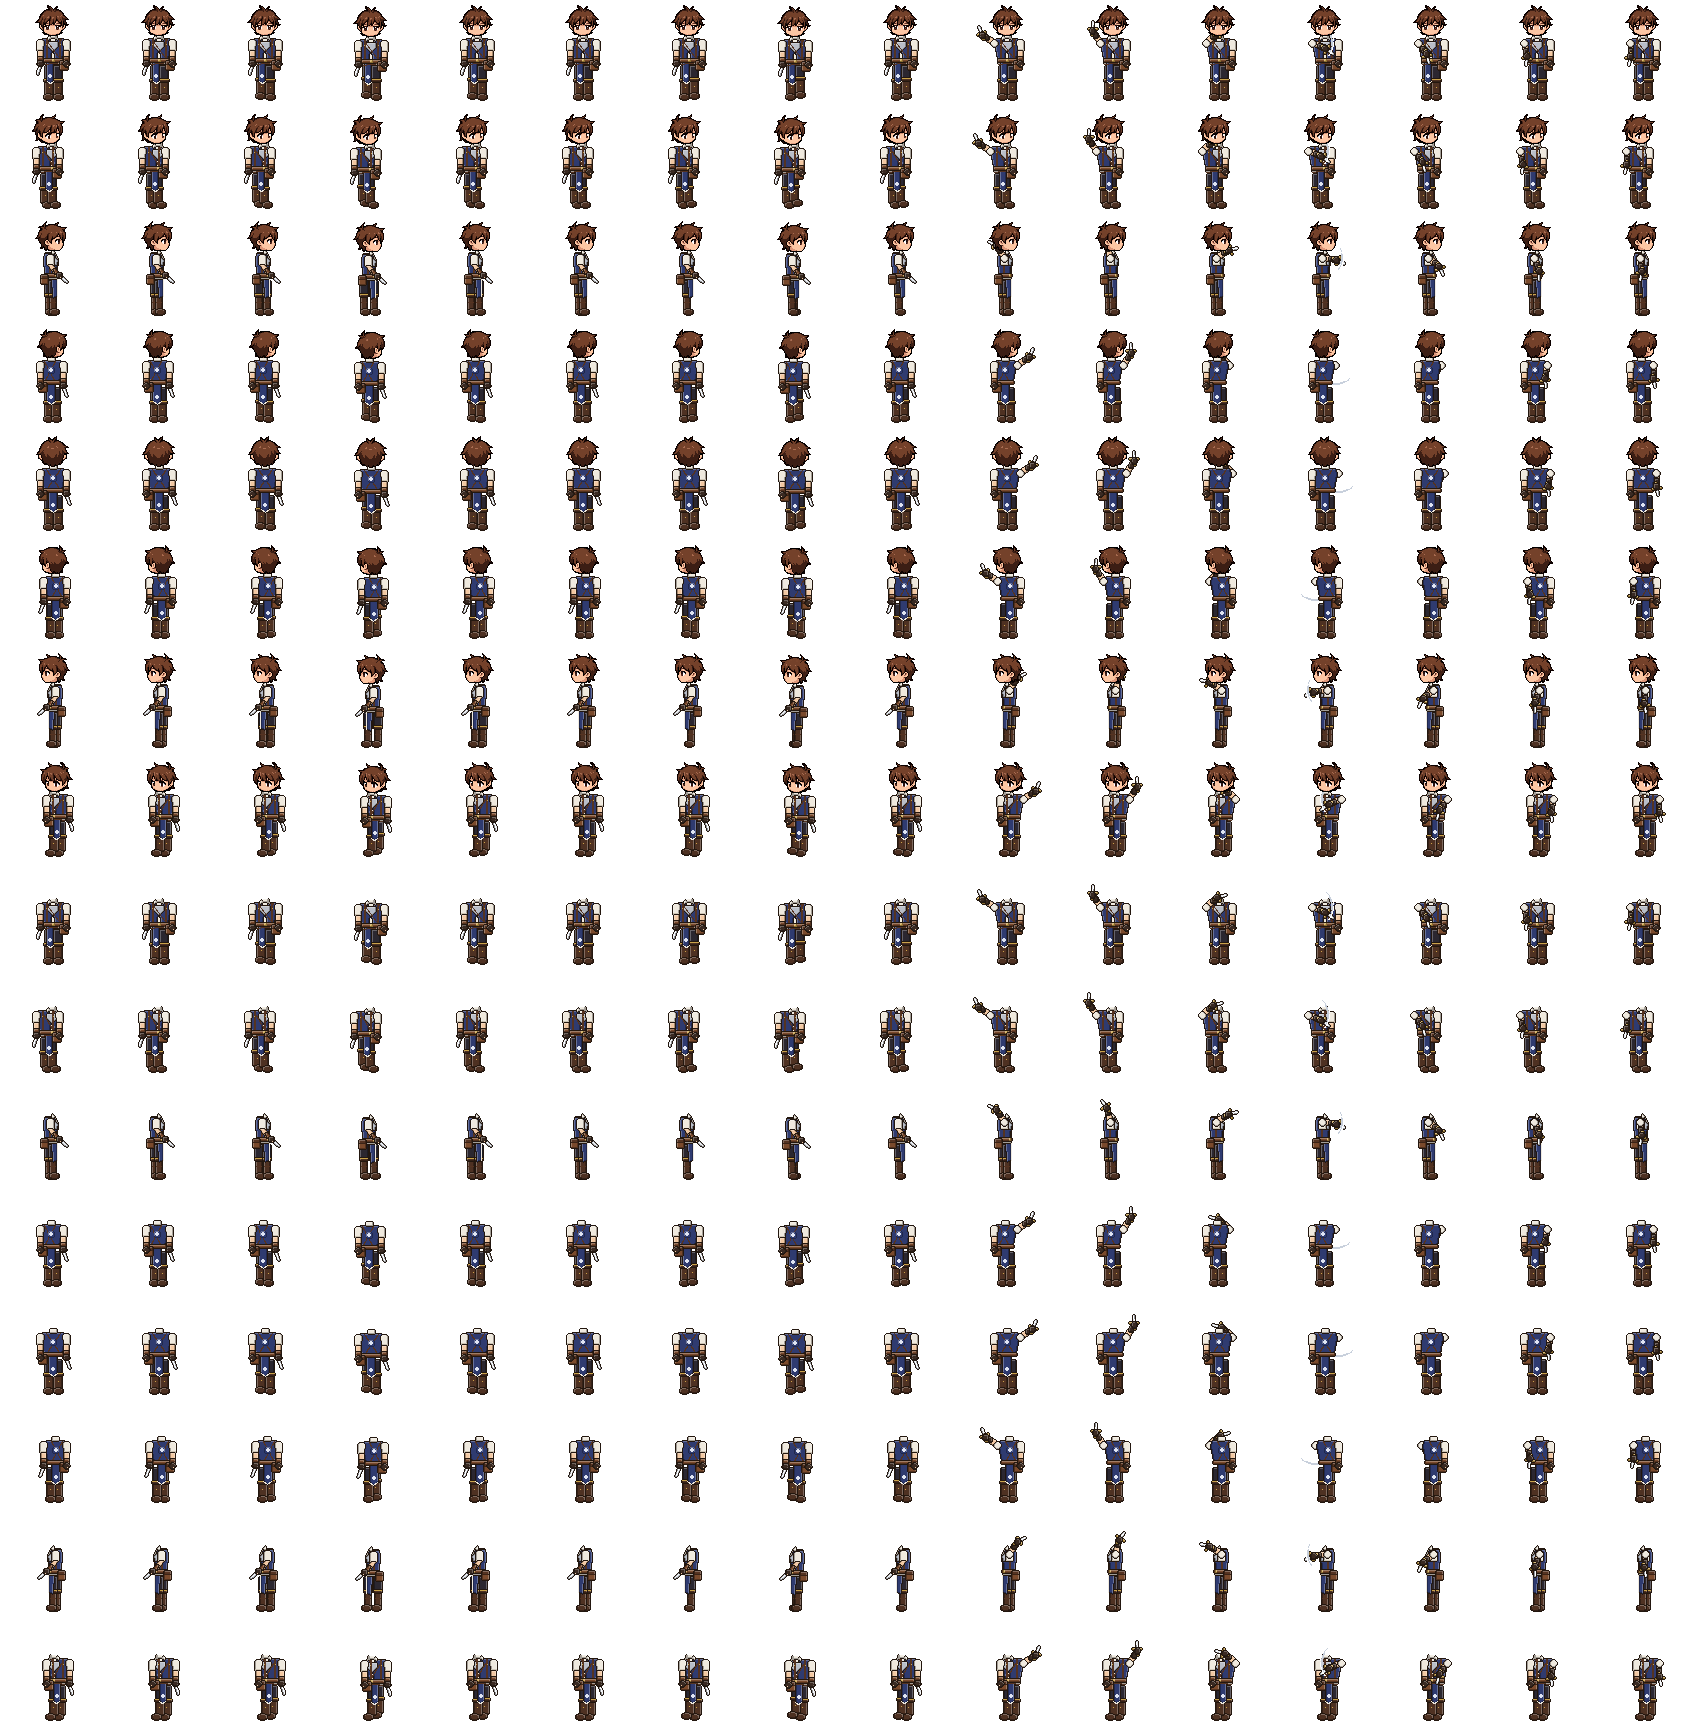
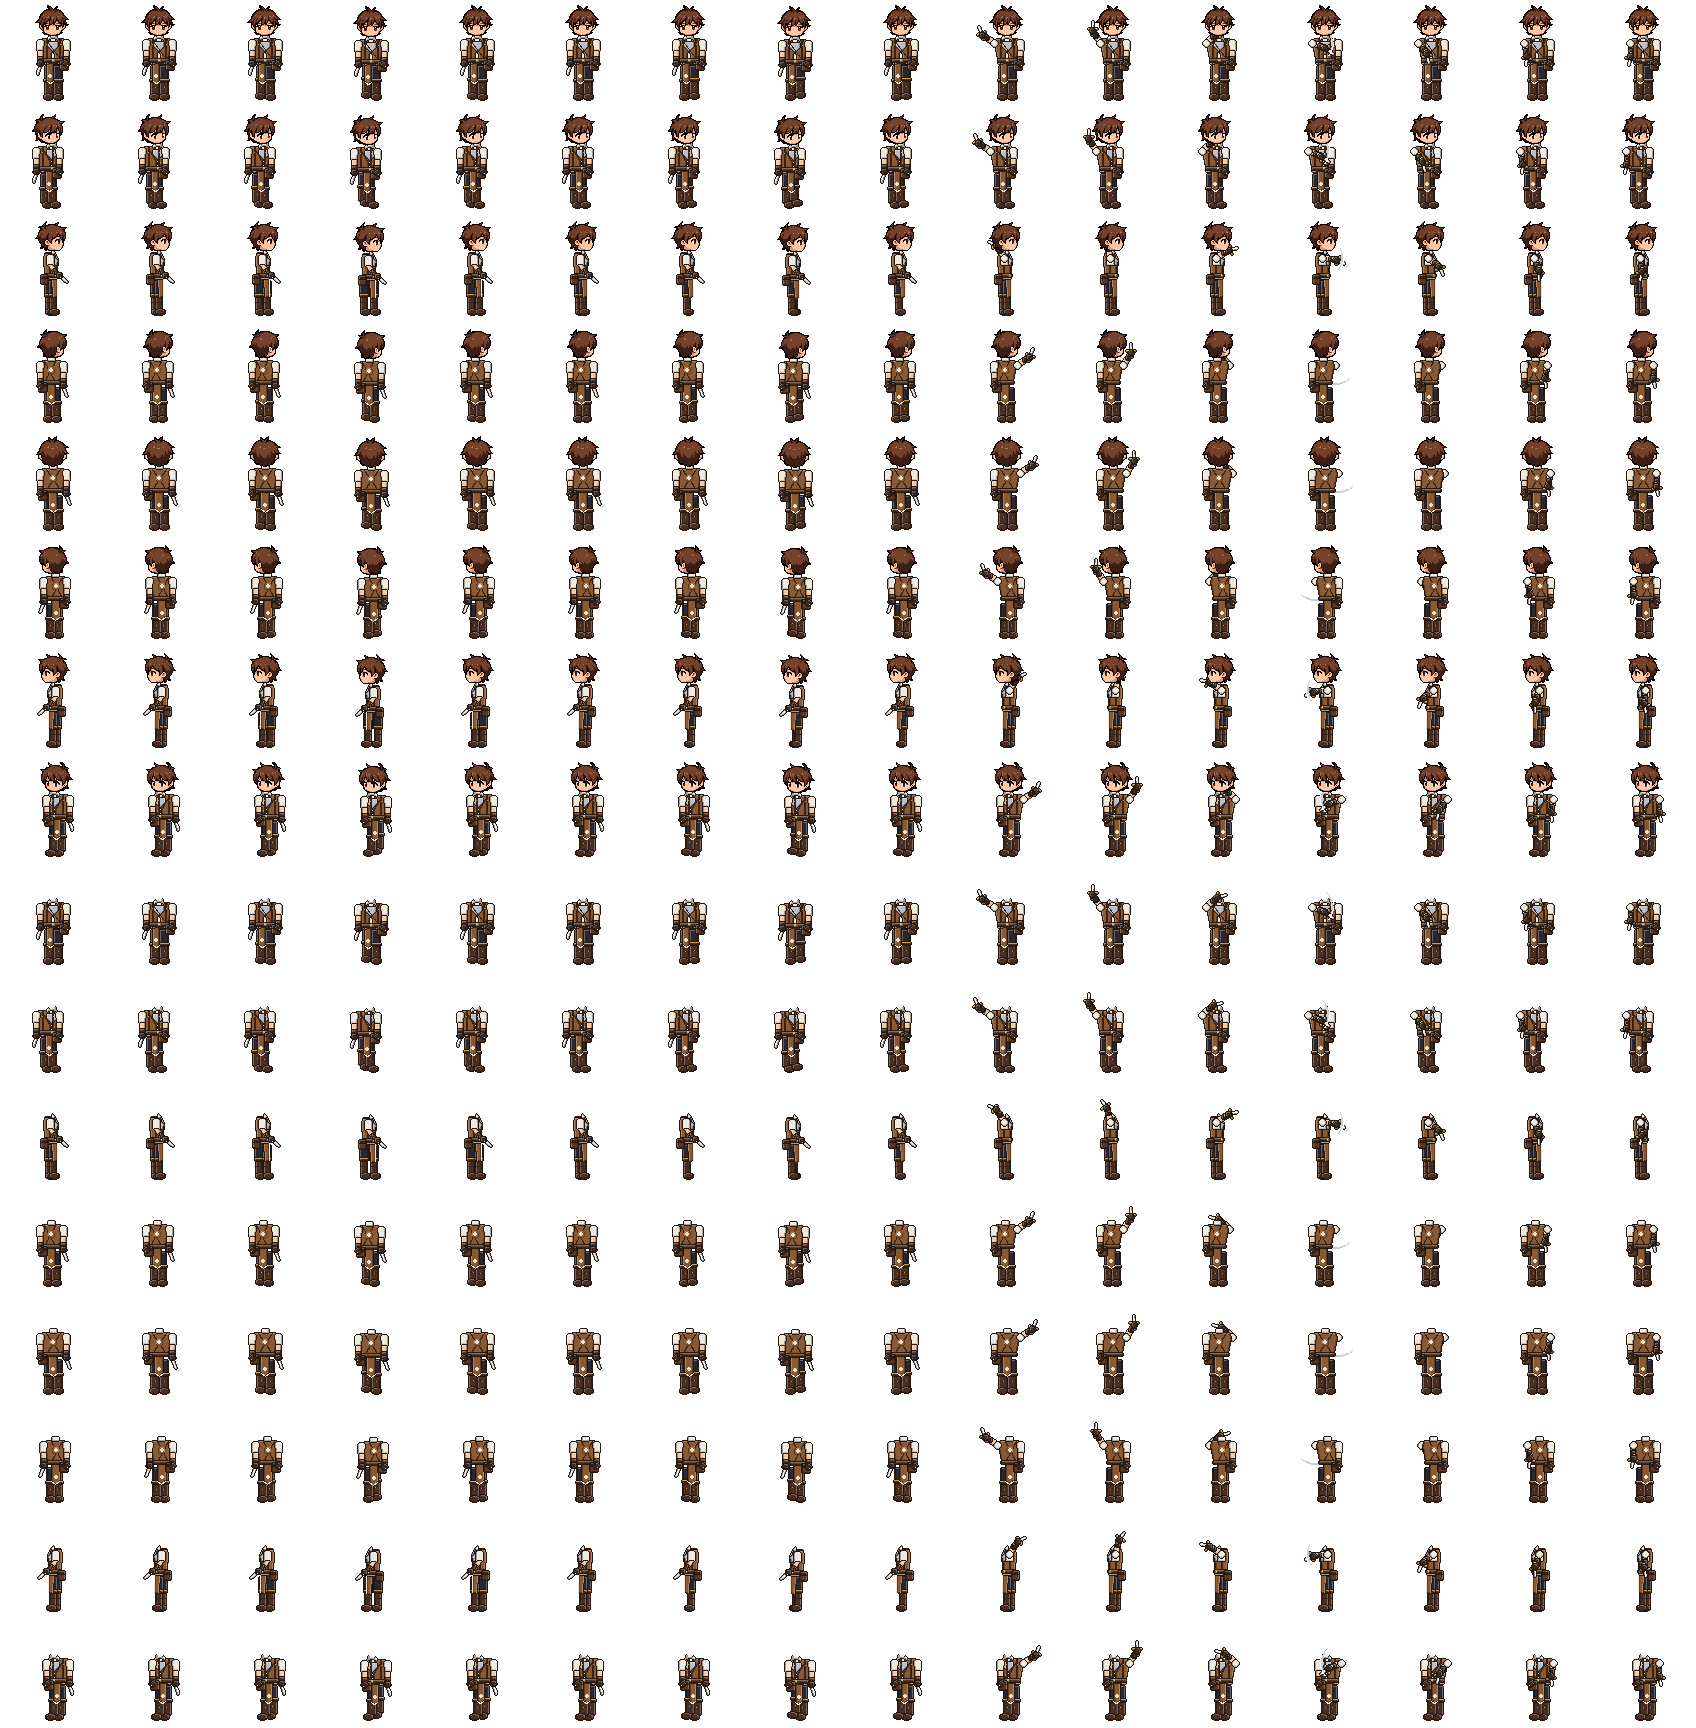
Trainee designs in brown where the sheet has blue (vest, front panel, skirt), with darker leather to stand out
Claude-Session: https://claude.ai/code/session_01YNjFsLY1wykPSJC6NrukSP

diff --git a/src/trainees.js b/src/trainees.js
@@ -1,9 +1,9 @@
 // Sprite designs for the Trainee, male and female, painted in code like the job designs (bladers.js)
 // on the bald bodies' frame, so the shared head and hair go on top (docs/character-standard.md).
-// After the owner's Trainee sheet: a navy vest with a small steel chestplate over a white shirt with
+// After the owner's Trainee sheet, in brown where the sheet has blue: a brown vest with a small steel chestplate over a white shirt with
 // rolled sleeves and a pointed collar, brown leather shoulder straps, belts and a satchel at the hip,
-// fingerless gloves with bracers; on him baggy dark trousers tucked into tall cuffed boots and a navy
-// front panel with the compass star, on her a short navy skirt over white, a thigh strap and knee
+// fingerless gloves with bracers; on him baggy dark trousers tucked into tall cuffed boots and a brown
+// front panel with the compass star, on her a short brown skirt over white, a thigh strap and knee
 // boots. The sheet has no weapon, so the owner gave the Trainee a dagger.
 // Standing, walking (8 frames) and attacking (7: a dagger slash), 8 directions: the left ones are the
 // right ones mirrored. Not used in the game yet. Plain canvas, no three.js.
@@ -14,9 +14,9 @@ export const BW = 106, BH = 108; // the bald bodies' frame (src/art/trainee.json
 const LEGS = 63;                 // chin to ground, in pixels, in every direction
 
 const C = {
-  vest: '#2f3b70', vestLt: '#4a5994', shirt: '#efe9de', shirtDk: '#cfc6b6', steel: '#b9bec8', leather: '#7a4a2c',
-  strap: '#553321', pants: '#2b2730', boot: '#4e3122', trim: '#c9a24a', skin: '#f2c8a2', glove: '#3a2a22',
-  blade: '#d8dce4', edge: '#ffffff', emblem: '#dfe4f2',
+  vest: '#8a5a34', vestLt: '#a8744a', shirt: '#efe9de', shirtDk: '#cfc6b6', steel: '#b9bec8', leather: '#5a3824',
+  strap: '#3a2316', pants: '#2b2730', boot: '#4a2e1f', trim: '#c9a24a', skin: '#f2c8a2', glove: '#3a2a22',
+  blade: '#d8dce4', edge: '#ffffff', emblem: '#f1e3c4',
 };
 export const TRAINEES = { traineeM: { name: 'Trainee', sex: 'm' }, traineeF: { name: 'Trainee', sex: 'f' } };
 
@@ -29,7 +29,7 @@ function build(o) {
   return { f, W: f ? 10 : 11, waist: f ? 7 : 9, hip: f ? 9 : 9, knee: f ? 44 : 43 };
 }
 
-// the compass star, small, in white on navy
+// the compass star, small, in cream on the brown
 function star(F, x, y) {
   F.part(poly([[x, y - 3], [x + 1, y - 1], [x + 3, y], [x + 1, y + 1], [x, y + 3], [x - 1, y + 1], [x - 3, y], [x - 1, y - 1]]), C.emblem, flat);
 }
@@ -100,17 +100,17 @@ function frontView(F, o, cx, cy, s, r) {
   F.part(poly([[cx - W, cy + 3], [R(cx + W), cy + 3], [R(cx + W + 1), cy + 8], [R(cx + waist), cy + 22], [R(cx + hip), cy + 28], [cx - hip, cy + 28], [cx - waist, cy + 22], [cx - W - 1, cy + 8]]), C.shirt);
   if (f) {
     F.part(poly([[cx - hip, cy + 26], [R(cx + hip), cy + 26], [R(cx + hip + 3), cy + 37], [cx - hip - 3, cy + 37]]), C.shirt); // the white underskirt
-    F.part(poly([[cx - hip, cy + 26], [R(cx + hip), cy + 26], [R(cx + hip + 2), cy + 35], [cx - hip - 2, cy + 35]]), C.vest); // the navy skirt
+    F.part(poly([[cx - hip, cy + 26], [R(cx + hip), cy + 26], [R(cx + hip + 2), cy + 35], [cx - hip - 2, cy + 35]]), C.vest); // the brown skirt
     F.part(line(cx - hip - 2, cy + 35, R(cx + hip + 2), cy + 35, 1), C.trim, flat);
   }
-  // the navy front panel, hanging from the belt on his right (the viewer's left), white-edged, the star on it
+  // the brown front panel, hanging from the belt on his right (the viewer's left), white-edged, the star on it
   const pl = f ? 41 : 47;
   F.part(poly([[cx - 6 + s, cy + 26], [cx + s, cy + 26], [cx + s, cy + pl - 2], [cx - 3 + s, cy + pl], [cx - 6 + s, cy + pl - 2]]), C.vest);
   F.part(line(cx - 6 + s, cy + pl - 2, cx - 3 + s, cy + pl, 1), C.shirt, flat);
   F.part(line(cx - 3 + s, cy + pl, cx + s, cy + pl - 2, 1), C.shirt, flat);
   star(F, cx - 3 + s, cy + pl - 7);
 
-  // the navy vest, open at the top over the shirt and its collar; the steel chestplate
+  // the brown vest, open at the top over the shirt and its collar; the steel chestplate
   F.part(poly([[cx - W, cy + 3], [cx - 3 + s, cy + 3], [cx - 1 + s, cy + 12], [cx - 2 + s, cy + 23], [cx - waist, cy + 23], [cx - W - 1, cy + 8]]), C.vest);
   F.part(poly([[R(cx + W), cy + 3], [cx + 3 + s, cy + 3], [cx + 1 + s, cy + 12], [cx + 2 + s, cy + 23], [R(cx + waist), cy + 23], [R(cx + W + 1), cy + 8]]), C.vest);
   if (f) F.part(rect(cx - 2 + s, cy + 12, cx + 2 + s, cy + 23), C.vest, soft); // hers closes below the chest
@@ -155,7 +155,7 @@ function backView(F, o, cx, cy, s, r) {
   F.part(poly([[cx - W, cy + 3], [R(cx + W), cy + 3], [R(cx + W + 1), cy + 8], [R(cx + waist), cy + 24], [cx - waist, cy + 24], [cx - W - 1, cy + 8]]), C.vest);
   F.part(line(cx - 7 + s, cy + 3, R(cx + 6) + s, cy + 22, 1), C.strap, flat);
   F.part(line(R(cx + 7) + s, cy + 3, cx - 6 + s, cy + 22, 1), C.strap, flat);
-  F.part(ellipse(cx + s, cy + 12, 3.5, 3.5), C.vest, soft); // the star, on a navy patch over the straps' crossing
+  F.part(ellipse(cx + s, cy + 12, 3.5, 3.5), C.vest, soft); // the star, on a patch of the vest over the straps' crossing
   star(F, cx + s, cy + 12);
   const pl = f ? 40 : 46;
   F.part(poly([[cx - 4 + s, cy + 25], [cx + 4 + s, cy + 25], [cx + 4 + s, cy + pl - 3], [cx + s, cy + pl], [cx - 4 + s, cy + pl - 3]]), C.vest);
